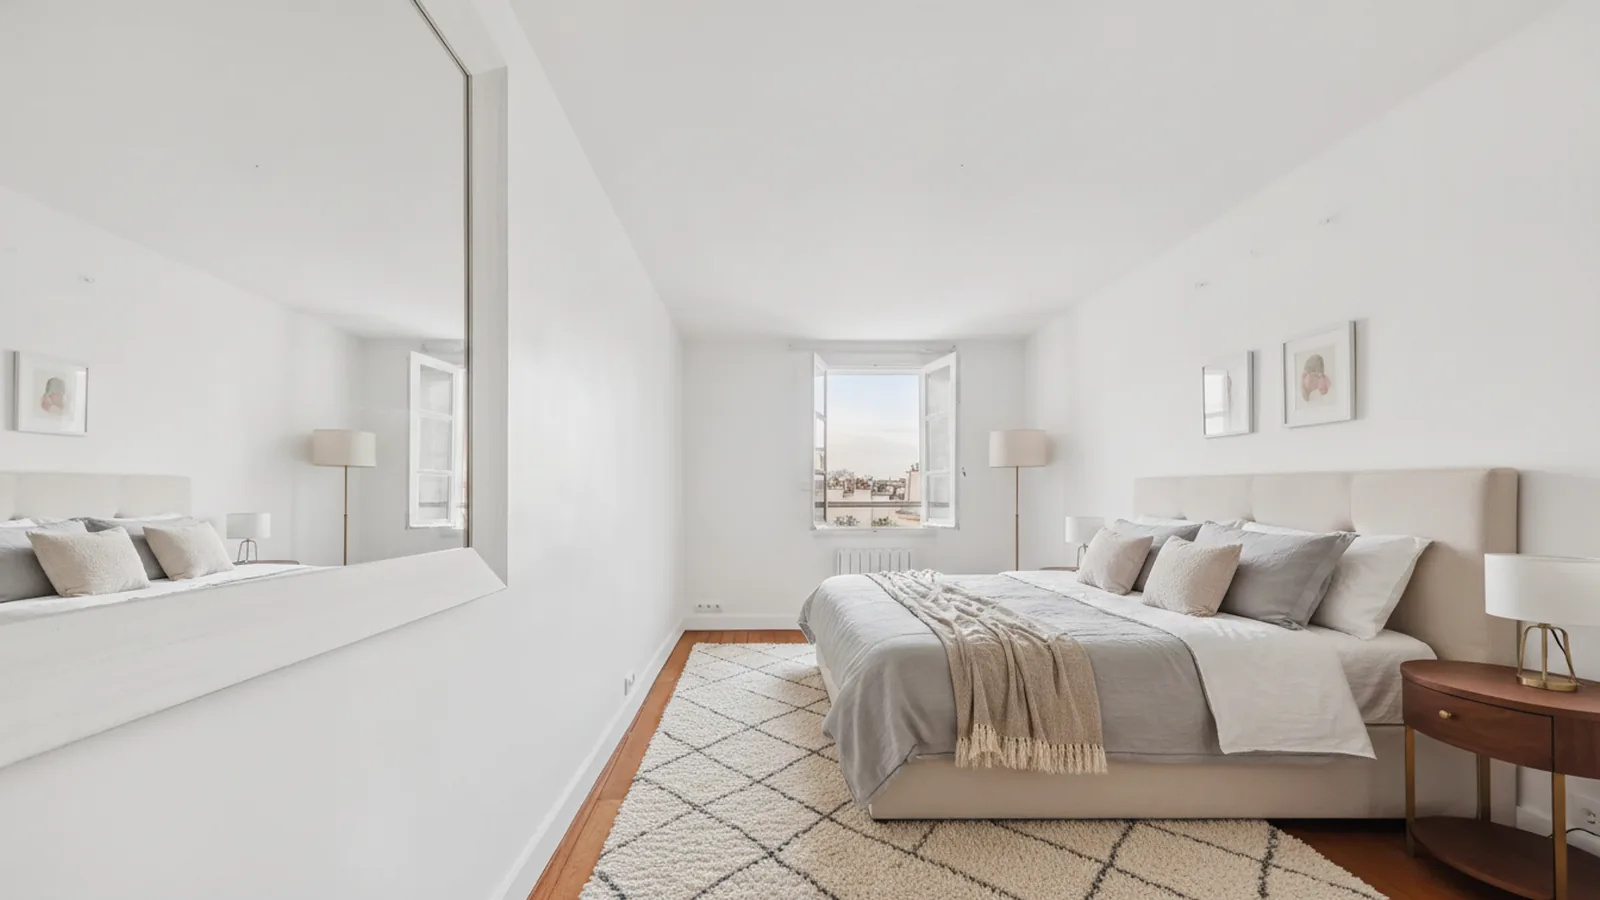
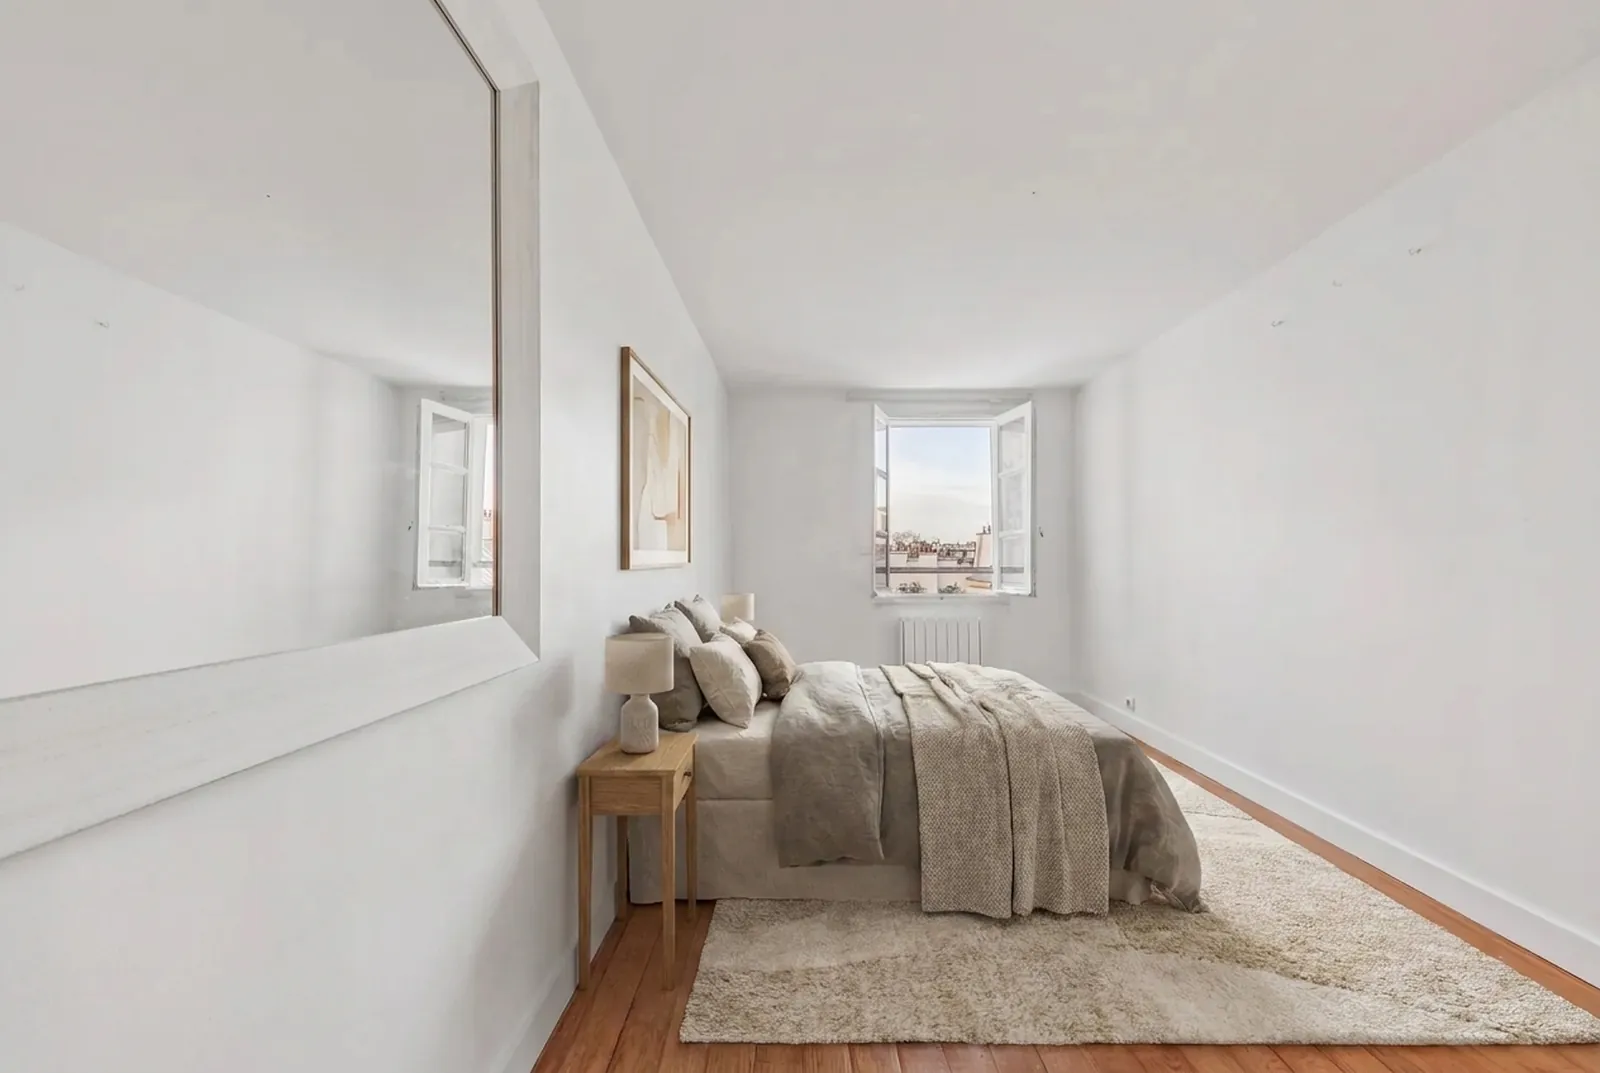
Cinq aménagements virtuels refaits, fidèles au bâti
Les projections précédentes étaient jugées « bof » : cadrage 16:9 sur des
photos 3:2, ce qui élargissait les pièces, et un staging du 6e inventait une
fenêtre. Reprises avec le modèle image haute qualité, au ratio 3:2 de la
source, en nommant les éléments fixes à conserver.

- Séjour, chambre et bureau au 5e ; séjour et chambre mansardée au 6e.
- Chaque image comparée à sa photo source : fenêtres, radiateurs, niches,
  suspensions, kitchenette rouge et papier peint du 6e tous préservés.
- Le séjour passe en pleine largeur, la grille reste équilibrée à cinq.
- Section renommée « Une fois meublé » : le visiteur comprend qu'il regarde
  une suggestion d'ameublement, pas des travaux.
- .proj repasse en 3:2 — le 16:9 rognait sols et plafonds.

diff --git a/index.html b/index.html
@@ -29,7 +29,7 @@
   <link rel="preload" href="assets/fonts/Manrope-400.woff2" as="font" type="font/woff2" crossorigin>
   <link rel="preload" as="image" type="image/webp" imagesrcset="assets/img/orsay-1200.webp 1200w, assets/img/orsay-1600.webp 1600w, assets/img/orsay-2400.webp 2400w" imagesizes="100vw" fetchpriority="high">
   <link rel="stylesheet" href="assets/fonts/fonts.css?v=17">
-  <link rel="stylesheet" href="css/main.css?v=34">
+  <link rel="stylesheet" href="css/main.css?v=35">
   <noscript><style>.reveal{opacity:1;transform:none}.hero__content>*{opacity:1;transform:none}.opener__frame{transform:none;border-radius:0}</style></noscript>
   <script type="application/ld+json">
   {
@@ -179,16 +179,17 @@
     <section class="projections" id="projections">
       <div class="wrap">
         <header class="section-head reveal">
-          <h2>Projections</h2>
-          <p>Le potentiel des volumes, meublés virtuellement sur les photographies réelles. L'architecture — murs, fenêtres, poutres — n'est jamais modifiée.</p>
+          <h2>Une fois meublé</h2>
+          <p>Les mêmes pièces, aménagées virtuellement sur les photographies réelles. Murs, fenêtres, poutres et volumes restent exactement ceux du bien.</p>
         </header>
         <div class="projections__grid" id="projGrid">
-          <figure class="proj reveal"><img src="assets/img/chambre-stage-1600.webp" width="1600" height="900" alt="Projection d'aménagement de la chambre du 5e étage" loading="lazy" decoding="async"><figcaption>La chambre, 5ᵉ · projection</figcaption></figure>
-          <figure class="proj reveal"><img src="assets/img/cuisine-renovee-960.webp" width="960" height="549" alt="Projection de la cuisine rénovée du 5e étage" loading="lazy" decoding="async"><figcaption>La cuisine rénovée, 5ᵉ · projection</figcaption></figure>
-          <figure class="proj reveal"><img src="assets/img/bureau-renove-960.webp" width="960" height="549" alt="Projection du bureau ou seconde chambre du 5e étage" loading="lazy" decoding="async"><figcaption>Le bureau / 2ᵉ chambre, 5ᵉ · projection</figcaption></figure>
-          <figure class="proj reveal"><img src="assets/img/six-chambre-stage-960.webp" width="960" height="549" alt="Projection d'aménagement de la chambre mansardée du 6e étage" loading="lazy" decoding="async"><figcaption>La chambre mansardée, 6ᵉ · projection</figcaption></figure>
+          <figure class="proj proj--wide reveal"><img src="assets/img/sejour-stage-1600.webp?v=3" width="1600" height="1073" alt="Le séjour du 5e étage aménagé : canapé en lin, table basse en chêne, tapis" loading="lazy" decoding="async"><figcaption>Le séjour, 5ᵉ</figcaption></figure>
+          <figure class="proj reveal"><img src="assets/img/chambre-stage-1600.webp?v=3" width="1600" height="1073" alt="La chambre du 5e étage aménagée : lit en lin, chevets en chêne" loading="lazy" decoding="async"><figcaption>La chambre, 5ᵉ</figcaption></figure>
+          <figure class="proj reveal"><img src="assets/img/bureau-stage-1600.webp?v=3" width="1600" height="1073" alt="Le bureau du 5e étage aménagé face aux toits : bureau en chêne, bibliothèque basse" loading="lazy" decoding="async"><figcaption>Le bureau face aux toits, 5ᵉ</figcaption></figure>
+          <figure class="proj reveal"><img src="assets/img/six-sejour-stage-1600.webp?v=3" width="1600" height="1073" alt="Le séjour du 6e étage aménagé en studio : canapé, table ronde, plantes" loading="lazy" decoding="async"><figcaption>Le 6ᵉ en studio indépendant</figcaption></figure>
+          <figure class="proj reveal"><img src="assets/img/six-chambre-stage-1600.webp?v=3" width="1600" height="1073" alt="La chambre mansardée du 6e étage aménagée : lit double, chevet, tapis" loading="lazy" decoding="async"><figcaption>La chambre mansardée, 6ᵉ</figcaption></figure>
         </div>
-        <p class="projections__note reveal">Aménagements virtuels générés par IA sur les photographies du bien, indicatifs et non contractuels.</p>
+        <p class="projections__note reveal">Aménagements virtuels générés sur les photographies du bien : le mobilier est une suggestion, l'architecture est celle que vous visiterez. Indicatif, non contractuel.</p>
       </div>
     </section>
 
@@ -342,6 +343,6 @@
     <p class="lightbox__count" id="lbCount"></p>
   </div>
 
-  <script src="js/main.js?v=34" defer></script>
+  <script src="js/main.js?v=35" defer></script>
 </body>
 </html>

diff --git a/css/main.css b/css/main.css
@@ -364,7 +364,12 @@ h1, h2, h3 { font-family: var(--serif); font-weight: 500; color: var(--ink); }
   gap: clamp(1rem, 2.5vw, 2rem);
 }
 @media (max-width: 700px) { .projections__grid { grid-template-columns: 1fr; } }
-.proj img { width: 100%; aspect-ratio: 16 / 9; object-fit: cover; }
+/* Les stagings sont produits au cadrage 3:2 des photos sources : les
+   recadrer en 16:9 rognait le sol et les plafonds. */
+.proj img { width: 100%; aspect-ratio: 3 / 2; object-fit: cover; }
+.proj--wide { grid-column: 1 / -1; }
+.proj--wide img { aspect-ratio: 21 / 9; }
+@media (max-width: 700px) { .proj--wide img { aspect-ratio: 3 / 2; } }
 .proj figcaption { margin-top: 0.55rem; font-size: 0.7rem; letter-spacing: 0.18em; text-transform: uppercase; color: var(--muted); }
 .projections__note { margin-top: 2rem; font-size: 0.74rem; color: var(--muted); font-style: italic; max-width: 52ch; }
 
